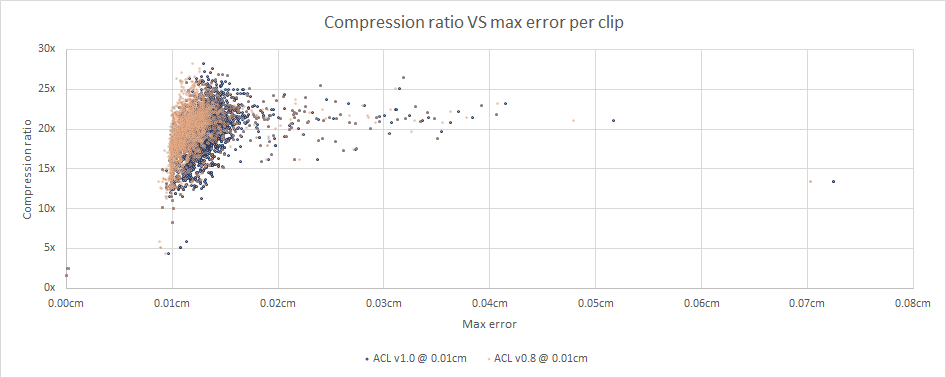
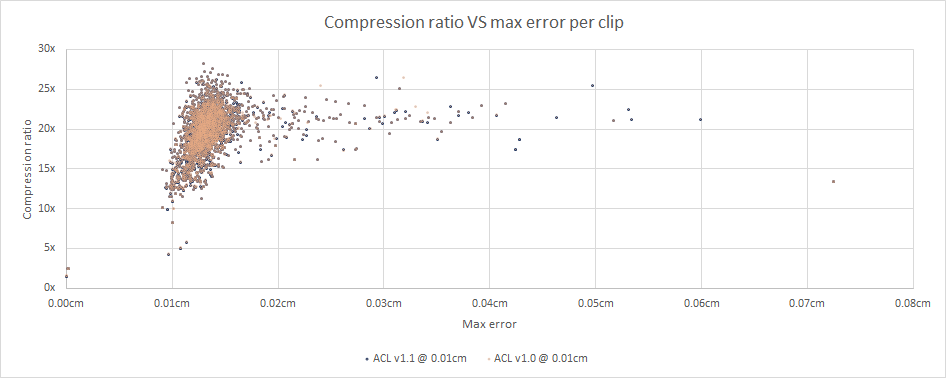
Update the CMU stats and graphs.

diff --git a/docs/cmu_performance.md b/docs/cmu_performance.md
@@ -1,11 +1,14 @@
 # Carnegie-Mellon University database performance
 
-|                        | v1.0.0     | v0.8.0     | v0.7.0     |
-| -------                | --------   | --------   | --------   |
-| **Compressed size**    | 67.02 MB   | 67.02 MB   | 67.04 MB   |
-| **Compression ratio**  | 21.33 : 1  | 21.33 : 1  | 21.32 : 1  |
-| **Max error**          | 0.0725 cm  | 0.0703 cm  | 0.0479 cm  |
-| **Compression time**   | 37m 47.76s | 36m 27.22s | 51m 24.01s |
+|                       | v1.1.0     | v1.0.0     | v0.8.0     |
+| --------------------- | ---------- | ---------- | ---------- |
+| **Compressed size**   | 67.06 MB   | 67.02 MB   | 67.02 MB   |
+| **Compression ratio** | 21.31 : 1  | 21.33 : 1  | 21.33 : 1  |
+| **Compression time**  | 35m 19.96s | 37m 47.76s | 36m 27.22s |
+| **Compression speed**  | 690.43 KB/sec | 645.43 KB/sec | 669.20 KB/sec |
+| **Max error**         | 0.0725 cm  | 0.0725 cm  | 0.0703 cm  |
+| **Error 99<sup>th</sup> percentile** | 0.0090 cm | 0.0090 cm | 0.0090 cm |
+| **Samples below error threshold** | 99.83 % | 99.83 % | 99.83 % |
 
 # Data and method used
 
@@ -20,7 +23,7 @@ They were converted to the [ACL file format](the_acl_file_format.md) using the [
 
 ACL supports various compression methods but only the overall best variant will be tracked here (see `get_default_compression_settings()` for details).
 
-The error is measured **3cm** away from each bone to simulate the visual mesh skinning process as described [here](error_metrics.md).
+The error is measured **3cm** away from each bone to simulate the visual mesh skinning process as described [here](error_metrics.md) with the default error threshold of **0.01cm**. The **99th** percentile and the number of samples below the error threshold are calculated by measuring the error on every bone at every sample.
 
 The performance of ACL in Unreal Engine 4 is tracked by the plugin [here](https://github.com/nfrechette/acl-ue4-plugin/blob/develop/Docs/cmu_performance.md).
 
